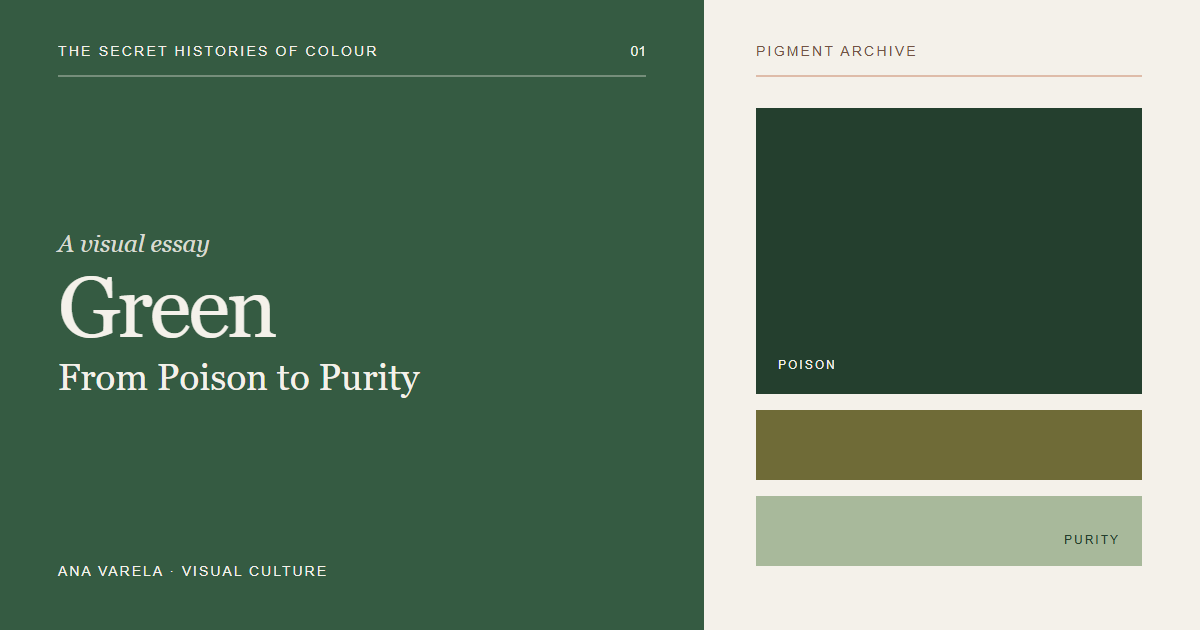
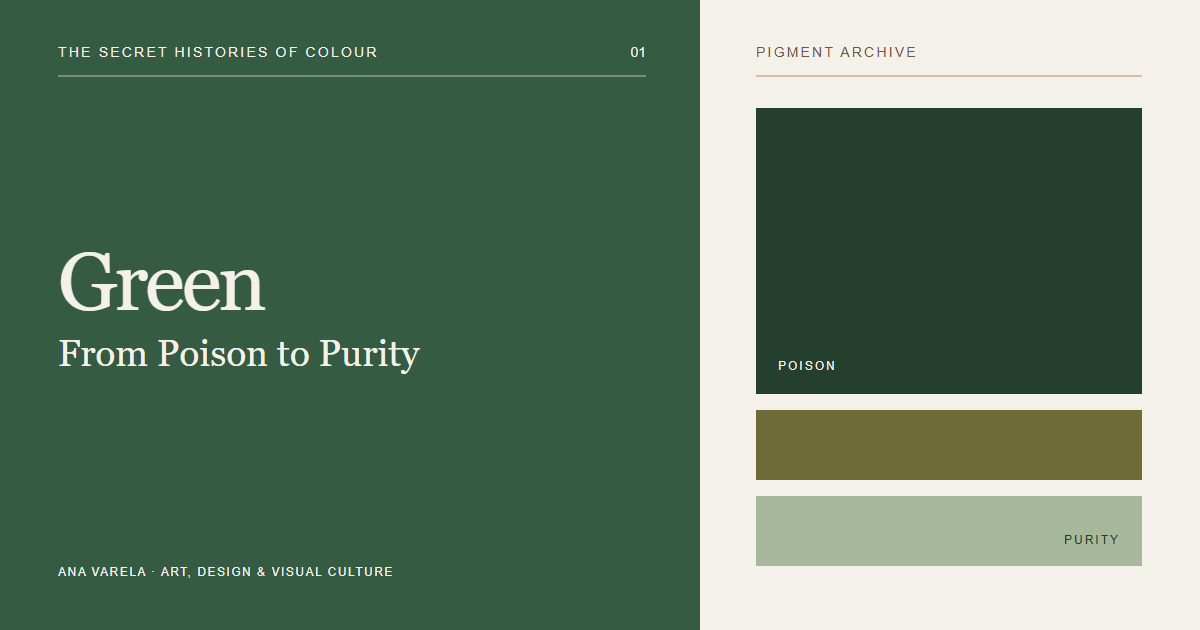
Correct Green labelling and broaden its category (#4)
* Document Green category correction

* Plan Green category correction

* test: define Green category correction

* fix: correct Green labelling and category

* fix: refresh Green social card labelling

diff --git a/tests/build.test.js b/tests/build.test.js
@@ -46,16 +46,28 @@ test("Green is a complete published colour-series essay", async () => {
 
   assert.equal(data.title, "Green: From Poison to Purity");
   assert.equal(data.series, "The Secret Histories of Colour");
-  assert.equal(data.category, "Visual Culture");
+  assert.equal(data.category, "Art, Design & Visual Culture");
   assert.equal(data.status, "published");
   assert.equal(data.featured, true);
   assert.match(body, /## 3\. The Difficulty of Making Green/);
   assert.match(body, /## 4\. Toxic Beauty: Scheele's Green and Arsenic in the Home/);
   assert.match(body, /## Consolidated Bibliography/);
+  assert.doesNotMatch(body, /Pull Quotes for the Visual Essay/i);
   assert.ok((body.match(/### Sources for this section/g) || []).length >= 8);
   assert.ok(body.trim().split(/\s+/).length >= 2500);
   assert.equal(await exists("src/images/editorial-green.svg"), true);
   assert.equal(await exists("src/images/social-green.png"), true);
+
+  const cover = await readFile("src/images/editorial-green.svg", "utf8");
+  assert.doesNotMatch(cover, /A visual essay/i);
+  assert.doesNotMatch(cover, />VISUAL CULTURE</);
+  assert.match(cover, /ART, DESIGN &amp; VISUAL CULTURE/);
+
+  const socialSource = await readFile("src/images/social-green-source.svg", "utf8");
+  assert.match(socialSource, /width="1200" height="630"/);
+  assert.doesNotMatch(socialSource, /A visual essay/i);
+  assert.doesNotMatch(socialSource, />VISUAL CULTURE</);
+  assert.match(socialSource, /ART, DESIGN &amp; VISUAL CULTURE/);
 });
 
 async function buildFixture(t, { onlyDraft = false, publishedSlug = "published" } = {}) {

diff --git a/tests/templates.test.js b/tests/templates.test.js
@@ -106,6 +106,18 @@ test("category themes retain the seven stable editorial artwork paths", () => {
   }
 });
 
+test("Art, Design & Visual Culture retains its established public route", () => {
+  const theme = categoryThemes.find(({ slug }) => slug === "visual-culture");
+
+  assert.equal(theme.name, "Art, Design & Visual Culture");
+  assert.deepEqual(theme.categories, ["Art, Design & Visual Culture"]);
+  assert.equal(theme.slug, "visual-culture");
+
+  const html = renderCategoryPage(theme, []);
+  assert.match(html, /<h1>Art, Design &amp; Visual Culture<\/h1>/);
+  assert.match(html, /https:\/\/ana-varela\.vercel\.app\/categories\/visual-culture\//);
+});
+
 test("the 404 page preserves the site identity and recovery links", () => {
   assert.equal(typeof templates.renderNotFoundPage, "function");
   const html = templates.renderNotFoundPage();

diff --git a/src/site.js b/src/site.js
@@ -34,11 +34,11 @@ export const categoryThemes = [
     description: "Urban life, belonging, tourism, housing and the difference between visiting and living."
   },
   {
-    name: "Visual Culture",
+    name: "Art, Design & Visual Culture",
     slug: "visual-culture",
     image: "/images/editorial-visual-culture.svg",
-    categories: ["Visual Culture"],
-    description: "Images, platforms, aesthetics and the visual systems that shape how ideas are read."
+    categories: ["Art, Design & Visual Culture"],
+    description: "Art, design, colour, images and material culture examined through the visual systems that shape how ideas are read."
   },
   {
     name: "Health",

diff --git a/docs/superpowers/plans/2026-08-13-green-category-correction.md b/docs/superpowers/plans/2026-08-13-green-category-correction.md
@@ -1,0 +1,70 @@
+# Green Category and Labelling Correction Implementation Plan
+
+> **For agentic workers:** REQUIRED SUB-SKILL: Use superpowers:subagent-driven-development (recommended) or superpowers:executing-plans to implement this plan task-by-task. Steps use checkbox (`- [ ]`) syntax for tracking.
+
+**Goal:** Remove misleading visual-essay production language from Green and rename its category to Art, Design & Visual Culture without changing public URLs.
+
+**Architecture:** Update the essay frontmatter/body, the stable category definition and the Green SVG cover behind their existing paths. Extend current content/template tests to make the wording, category name and preserved route explicit.
+
+**Tech Stack:** Markdown frontmatter, static JavaScript templates, SVG, Node.js test runner.
+
+## Global Constraints
+
+- Preserve `/categories/visual-culture/` and all existing image and essay URLs.
+- Preserve the main essay, section sources, consolidated bibliography and colour-series identity.
+- Remove every public claim that Green is a visual essay.
+- Use the public category name `Art, Design & Visual Culture` consistently.
+- Add no dependencies and make no unrelated visual changes.
+
+---
+
+### Task 1: Define the correction contract
+
+**Files:**
+- Modify: `tests/build.test.js`
+- Modify: `tests/templates.test.js`
+
+**Interfaces:**
+- Consumes: Green frontmatter/body, `categoryThemes`, `renderHomePage` and `renderCategoryPage`.
+- Produces: regression coverage for wording, category naming and stable routing.
+
+- [ ] Add assertions that Green uses category `Art, Design & Visual Culture`, contains no `Pull Quotes for the Visual Essay`, and still contains its bibliography and section sources.
+- [ ] Add assertions that the category named `Art, Design & Visual Culture` retains slug `visual-culture`, maps the new category value and renders at `/categories/visual-culture/`.
+- [ ] Assert that `src/images/editorial-green.svg` contains neither `A visual essay` nor `VISUAL CULTURE`, and does contain `ART, DESIGN &amp; VISUAL CULTURE`.
+- [ ] Run `node --test --test-isolation=none tests/build.test.js tests/templates.test.js` and confirm failure on the old wording/category.
+- [ ] Commit with `test: define Green category correction`.
+
+### Task 2: Correct content, category and cover
+
+**Files:**
+- Modify: `content/essays/green-from-poison-to-purity.md`
+- Modify: `src/site.js`
+- Modify: `src/images/editorial-green.svg`
+- Test: `tests/build.test.js`
+- Test: `tests/templates.test.js`
+
+**Interfaces:**
+- Consumes: the stable slugs and paths protected by Task 1.
+- Produces: corrected public metadata, body and cover.
+
+- [ ] Change Green frontmatter category to `Art, Design & Visual Culture` and replace the `visual culture` tag with `art, design and visual culture`.
+- [ ] Delete the entire block from `## Pull Quotes for the Visual Essay` through its six quotations, leaving `## Consolidated Bibliography` immediately after Key Takeaways.
+- [ ] Rename the `Visual Culture` theme to `Art, Design & Visual Culture`, update its `categories` array to the same value and broaden its description to cover art, design, colour, images and material culture; retain slug `visual-culture`.
+- [ ] Remove the `A visual essay` text element from the SVG, shift the title group upward to balance the empty space, and change the footer to `ANA VARELA · ART, DESIGN &amp; VISUAL CULTURE` at a size that fits within the left field.
+- [ ] Run the focused tests and confirm they pass.
+- [ ] Commit with `fix: correct Green labelling and category`.
+
+### Task 3: Verify publication output
+
+**Files:**
+- Modify only if verification exposes a defect: files from Tasks 1–2.
+
+**Interfaces:**
+- Consumes: corrected source.
+- Produces: build-ready change suitable for a PR.
+
+- [ ] Run `npm test`; expect zero failures.
+- [ ] Run `npm run build`; expect exit code 0.
+- [ ] Run `npm run verify`; expect no broken routes or assets.
+- [ ] Inspect Green, the homepage category label and `/categories/visual-culture/` at desktop and mobile widths; confirm no clipping and no visual-essay label.
+- [ ] Run `git diff --check` and `git status --short`; remove no user-owned files.

diff --git a/docs/superpowers/specs/2026-08-13-green-category-correction-design.md b/docs/superpowers/specs/2026-08-13-green-category-correction-design.md
@@ -1,0 +1,30 @@
+# Green Category and Labelling Correction Design
+
+## Purpose
+
+Correct misleading draft-oriented language in *Green: From Poison to Purity* and give its category a clearer, broader name for future essays about art, design, colour, images and material culture.
+
+## Approved changes
+
+- Remove the phrase **“A visual essay”** from the Green editorial cover. The resulting spacing will be rebalanced without changing the cover's established pigment-archive identity.
+- Remove the complete **“Pull Quotes for the Visual Essay”** section from the published essay. These quotations are production notes rather than part of the finished text, and the useful quotations already appear within the essay.
+- Rename **“Visual Culture”** to **“Art, Design & Visual Culture”** throughout the public category system.
+- Update Green's category metadata and relevant tags to use the new wording.
+- Preserve the category slug `/categories/visual-culture/` and existing image paths so published links remain valid.
+
+## Content boundaries
+
+The essay's main body, section references, consolidated bibliography, title, subtitle, series name, publication date and URL remain unchanged. No visual material is added, and the colour-series identity remains intact.
+
+## Interface impact
+
+The new category name appears wherever category metadata is rendered: category navigation, category cards, the Projects page, the category page, essay metadata and the Green cover's author/category line. Layout must continue to fit at desktop and mobile widths despite the longer label.
+
+## Validation
+
+- No public Green page or cover contains “visual essay” or “Pull Quotes for the Visual Essay”.
+- The public name is consistently “Art, Design & Visual Culture”.
+- The existing `/categories/visual-culture/` route continues to work.
+- The Green essay retains all substantive sections, section-level references and consolidated bibliography.
+- Automated tests, build and generated-output verification pass.
+- Visual inspection confirms the longer category label and revised cover do not clip or crowd the layout.

diff --git a/content/essays/green-from-poison-to-purity.md b/content/essays/green-from-poison-to-purity.md
@@ -3,9 +3,9 @@ title: "Green: From Poison to Purity"
 subtitle: "How one colour moved from nature, instability and toxicity to wellness, sustainability and modern purity."
 date: "2026-08-10"
 year: "2026"
-category: "Visual Culture"
+category: "Art, Design & Visual Culture"
 series: "The Secret Histories of Colour"
-tags: ["colour", "visual culture", "design history", "green", "pigments"]
+tags: ["colour", "art, design and visual culture", "design history", "green", "pigments"]
 excerpt: "How green moved from unstable and poisonous pigments to one of contemporary culture's strongest symbols of nature, health and sustainability."
 image: "images/editorial-green.svg"
 socialImage: "images/social-green.png"
@@ -288,20 +288,6 @@ Green: from poison to purity. Not because it was ever only one thing, but becaus
 4. In the nineteenth century, arsenical greens appeared in wallpapers, textiles, artificial flowers and domestic interiors, creating a public health concern around fashionable design.
 5. Green's modern association with wellness and sustainability is not timeless. It is a cultural construction shaped by environmental awareness, branding and visual communication.
 6. The history of green shows that colours are never neutral. They carry material histories, symbolic meanings and cultural contradictions.
-
-## Pull Quotes for the Visual Essay
-
-> Green did not simply mean nature. It learned to mean nature.
-
-> The colour of life was once the colour of domestic danger.
-
-> A green room could signal taste, fashion and modernity, but also carry hidden risk.
-
-> The colour that once made poison look beautiful now helps make products look clean.
-
-> Green is not a neutral colour. It carries a history of attraction and anxiety.
-
-> Colours do not simply decorate culture. They help organise it.
 
 ## Consolidated Bibliography
 
